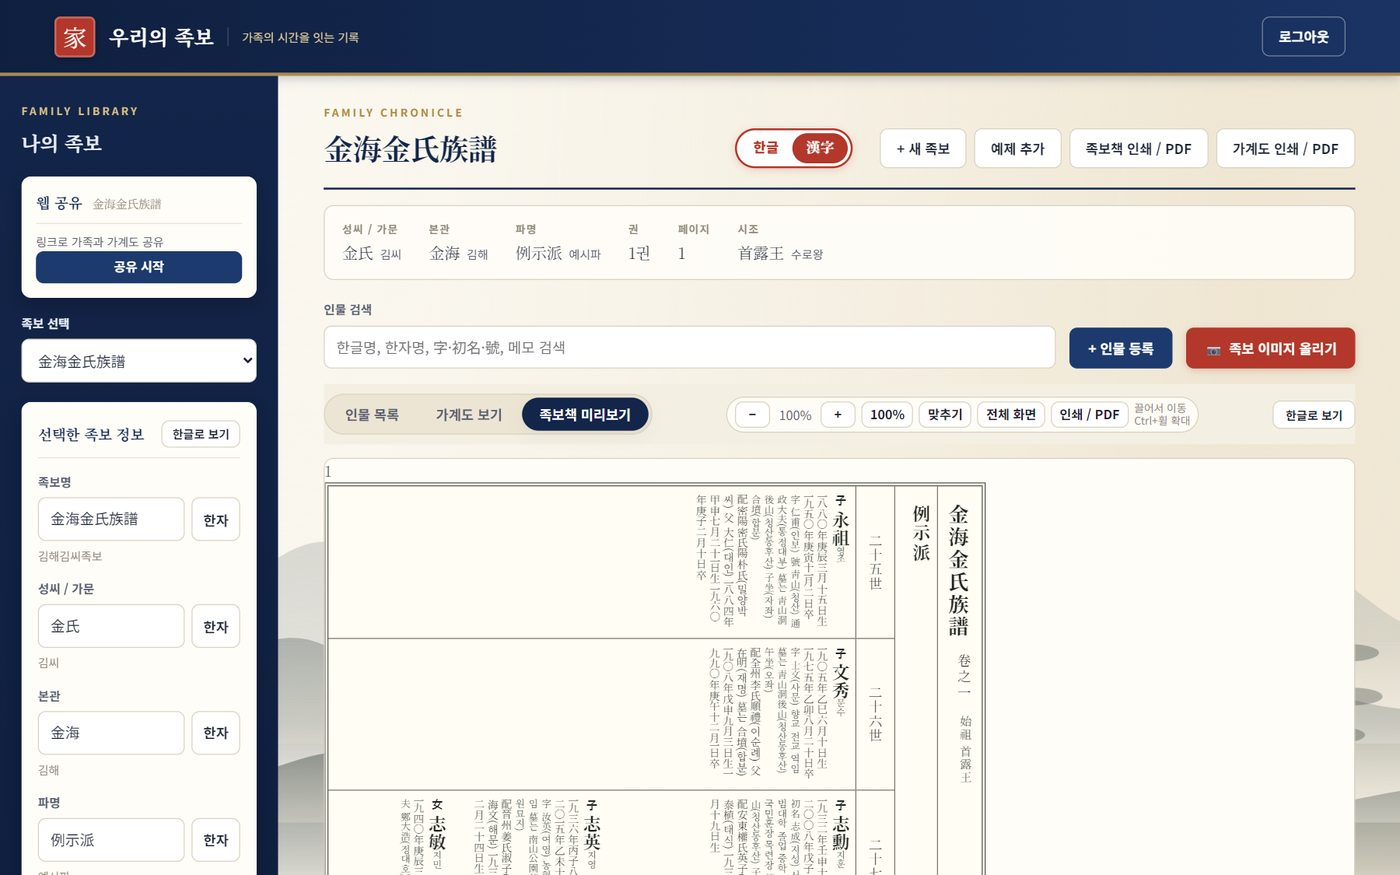
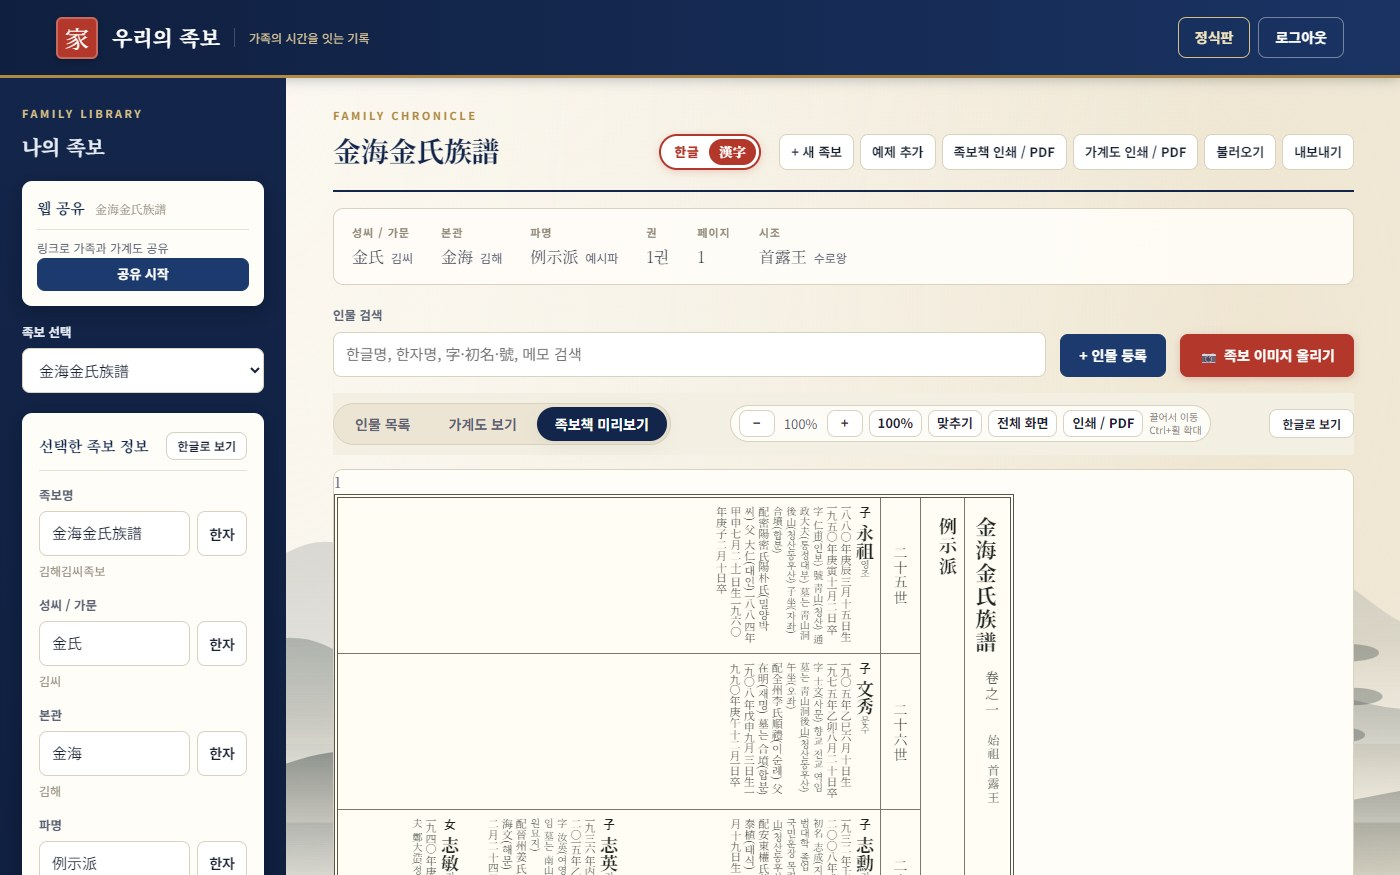
Homepage: retake tree, book and person pictures on 2026.11.8
The October pictures showed the toolbar without 불러오기/내보내기.
Taken from the 金海金氏 sample on a scratch database, 1400x875.

Changed region(s): [[0.0, 0.0, 1.0, 1.0], [0.645, 0.3086, 0.9521, 0.3394]]

diff --git a/CHANGELOG.md b/CHANGELOG.md
@@ -5,6 +5,10 @@
 - 설치 파일(exe): `store-v<버전>` 태그, 홈페이지에서 `jocbo-setup_v<버전>.exe`로 내려받음
 - Microsoft Store: `msix-v<버전>` 태그
 
+## 홈페이지 그림 — 2026.11.21
+
+- 홈페이지 그림 `img/tree.jpg`(맨 위 큰 그림, 가계도 칸, 링크 미리보기), `img/book.jpg`(족보책 미리보기), `img/person.jpg`(인물 수정)를 2026.11.8 화면으로 다시 찍었습니다. 10월 그림에는 버튼 줄에 불러오기·내보내기가 없었습니다. 예제 족보(金海金氏族譜)를 임시 DB에 넣어 1400×875로 찍었습니다.
+
 ## 2026.11.8 — 2026.11.19 배포 (2026.11.1~11.8의 변경이 처음 고객에게 나감)
 
 배포:
